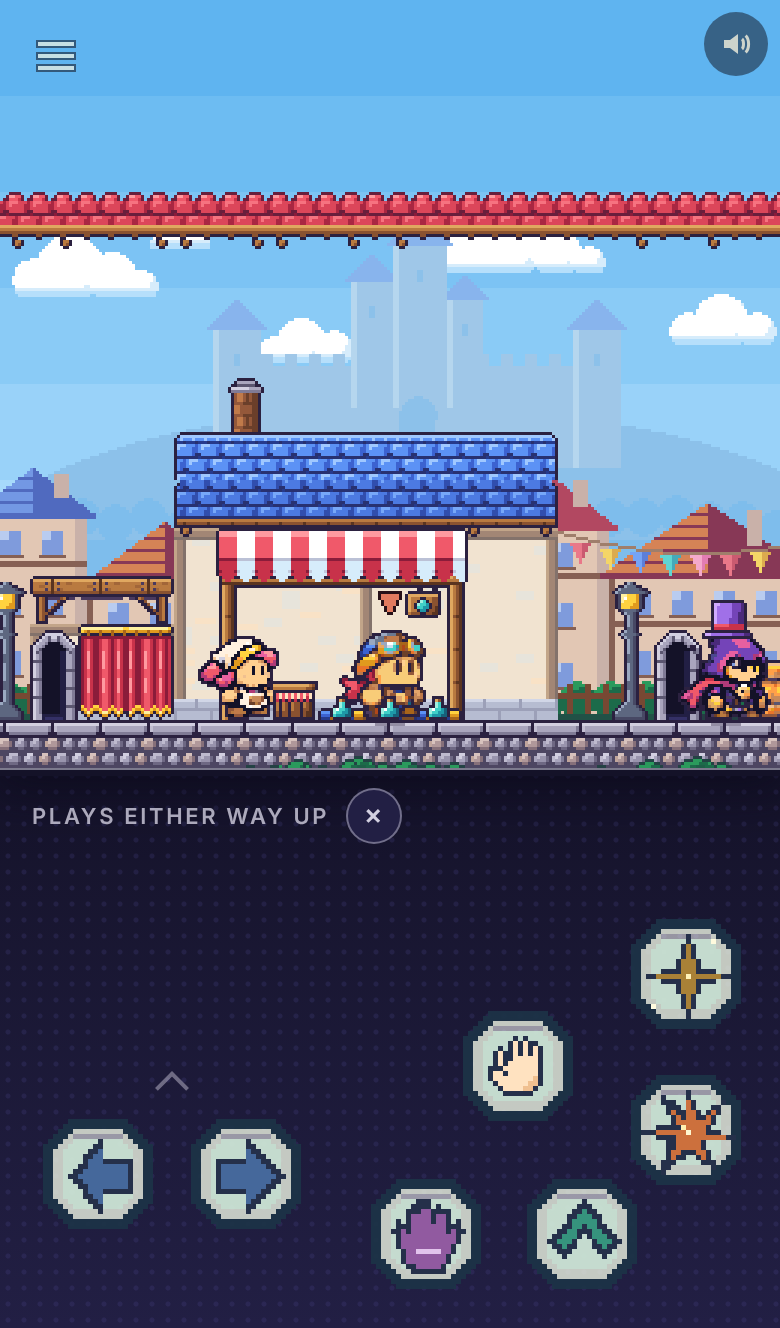
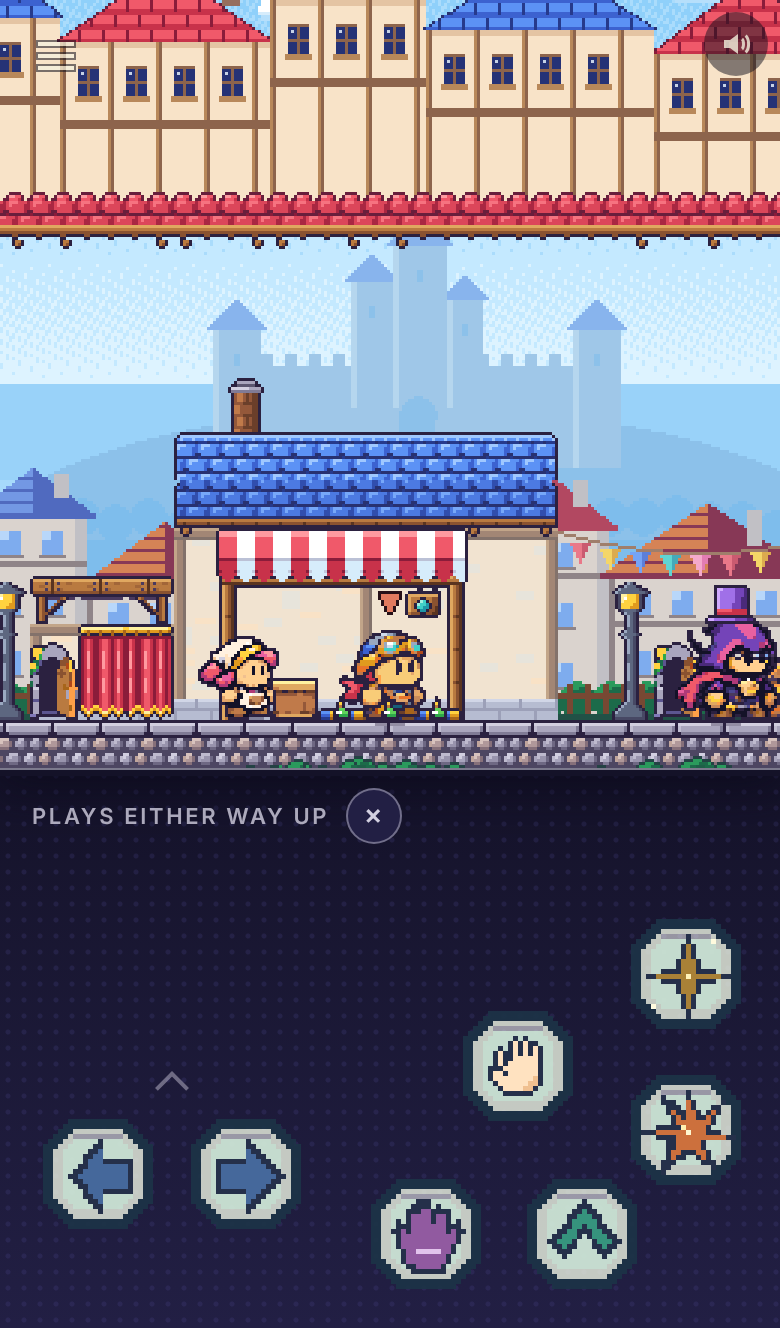
Step 8 look round 3, lane cast, push 5: tumble and curled held for every person; the villain's face reads
Why: the orchestrator's follow-ups after a59a302 put the tumble validator
on main. Every person (the twelve cut from the plates) now has `tumble`
(the recoil pose tucked and turned a quarter at a time, 4 frames) and a
curled, kicking `held`, with mood 2 and 3 versions. The villain is cut
larger (face about 11x7 px) and his mood-3 red face now also recolours
the gold/orange tones his plate paints his face in, so it shows at phone
size; the horn specks are gone. Top hat kept. Data only.

Ran: make.py, selfcheck, build, check, e2e (ok). Looked at the tumble and
held frames of all twelve and the villain on castle-street at 390x664 and
844x390. Not seen: a tumble in flight in the real game. Measure: no row.
Undo: revert the commit.

Claude-Session: https://claude.ai/code/session_017WiGzFHN8SWsy5GnNkweMt

diff --git a/tools/art/cast/cut3.py b/tools/art/cast/cut3.py
@@ -69,15 +69,22 @@ def lean(p, k):
     return p.copy(im=out, foot=(p.foot[0] + pad, p.foot[1]))
 
 
-def flush(p, frac=0.62):
+# The villain's plate paints his face in gold and orange tones; his red face recolours those too.
+WARM = dict(SKIN)
+WARM.update({RAMP['gold'][2]: RAMP['red'][2], RAMP['gold'][1]: RAMP['red'][1], RAMP['gold'][3]: RAMP['red'][3],
+                     RAMP['orange'][1]: RAMP['red'][1], RAMP['orange'][0]: RAMP['red'][0]})
+
+
+def flush(p, frac=0.62, table=None):
     im = p.im.copy()
     px = im.load()
     lim = int(im.height * frac)
+    table = table or SKIN
     for y in range(lim):
         for x in range(im.width):
             c = px[x, y]
-            if c[3] and c[:3] in SKIN:
-                px[x, y] = SKIN[c[:3]] + (255,)
+            if c[3] and c[:3] in table:
+                px[x, y] = table[c[:3]] + (255,)
     return p.copy(im=im)
 
 
@@ -354,8 +361,33 @@ def dehorn(p, frac=0.4):
     from source import _clean
     _clean(im)
     _clean(im)
+    _islands(im, 8)
     _ink(im)
     return p.copy(im=im)
+
+
+def _islands(im, smallest):
+    """Drops every 8-connected island of fewer than `smallest` pixels (specks left where a horn was)."""
+    px = im.load()
+    seen = set()
+    for y0 in range(im.height):
+        for x0 in range(im.width):
+            if (x0, y0) in seen or not px[x0, y0][3]:
+                continue
+            comp, stack = [], [(x0, y0)]
+            seen.add((x0, y0))
+            while stack:
+                x, y = stack.pop()
+                comp.append((x, y))
+                for dx in (-1, 0, 1):
+                    for dy in (-1, 0, 1):
+                        q = (x + dx, y + dy)
+                        if 0 <= q[0] < im.width and 0 <= q[1] < im.height and q not in seen and px[q][3]:
+                            seen.add(q)
+                            stack.append(q)
+            if len(comp) < smallest:
+                for q in comp:
+                    px[q] = (0, 0, 0, 0)
 
 
 def guard():
@@ -457,7 +489,7 @@ def villain():
     # horns taken off and round 2's tall top hat put on, so he keeps the silhouette that made him
     # the tallest person in a room. The plain horned hood is the alternative: drop the tophat() and
     # dehorn() calls in vil() below (docs/decisions-log.md).
-    raw = _poses('villains', 0.24, {
+    raw = _poses('villains', 0.28, {
         'i0': ((22, 151, 152, 290),),
         'i1': ((189, 154, 303, 290),),
         'w0': ((341, 155, 457, 290),),
@@ -492,7 +524,7 @@ def villain():
     }
     M2 = {'idle': [P['worry'], P['worry'], breathe(P['worry']), breathe(P['worry'])], 'talk': [P['worry'], P['alert']]}
     M3 = {}
-    return dict(cell=(56, 56), box=(14, 28), S=S, M2=M2, M3=M3, head=0.7)
+    return dict(cell=(56, 64), box=(14, 28), S=S, M2=M2, M3=M3, head=0.62, flush=WARM)
 
 
 ROUND3.update({
@@ -600,8 +632,36 @@ def toll_keeper():
 
 ROUND3['toll-keeper'] = toll_keeper
 
-PERSON_STATES = ['idle', 'run', 'air', 'attack', 'hurt', 'down', 'held', 'talk', 'grab', 'carry', 'carryRun', 'throw']
-MOOD_STATES = ['idle', 'run', 'air', 'attack', 'hurt', 'held', 'talk']
+PERSON_STATES = ['idle', 'run', 'air', 'attack', 'hurt', 'down', 'held', 'talk', 'grab', 'carry', 'carryRun', 'throw', 'tumble']
+MOOD_STATES = ['idle', 'run', 'air', 'attack', 'hurt', 'held', 'talk', 'tumble']
+
+
+def curl(p):
+    """Tucked: two rows out of the body (knees up), so a held or flung person reads as a ball."""
+    return breathe(breathe(p, 0.62), 0.45)
+
+
+def spin(p):
+    """A tumble: the curled pose turned a quarter at a time, forwards (a body in flight, not one lying down)."""
+    out = []
+    for t in (None, Image.ROTATE_270, Image.ROTATE_180, Image.ROTATE_90):
+        bb = p.im.getbbox()
+        im = p.im.crop(bb)
+        if t is not None:
+            im = im.transpose(t)
+        out.append(Pose(im, (im.width / 2, im.height), -2, 0))
+    return out
+
+
+def flight(S):
+    """Round 3: `held` curled and kicking, and `tumble`, made from the person's recoil pose."""
+    if 'hurt' not in S or 'held' not in S:
+        return S
+    S = dict(S)
+    S['held'] = [curl(p) for p in S['held']]
+    S['tumble'] = spin(curl(S['hurt'][1]))
+    S['_tumble'] = curl(S['hurt'][1])   # the unturned pose, so a mood's face edit lands on the head
+    return S
 
 
 def rows(spec):
@@ -610,15 +670,19 @@ def rows(spec):
     A mood state the person has no own pose for is the normal frames with
     the face edited: mood 2 a sweat drop, mood 3 a red face.
     """
-    S = spec['S']
+    S = spec['S'] if spec.get('thing') else flight(spec['S'])
     out = [(s, S[s]) for s in PERSON_STATES if s in S]
     if spec.get('thing'):
         return out
     head = spec.get('head', 0.62)
-    for m, own, edit in (('2', spec['M2'], sweat), ('3', spec['M3'], lambda p: flush(p, head))):
+    table = spec.get('flush')
+    for m, own, edit in (('2', spec['M2'], sweat), ('3', spec['M3'], lambda p: flush(p, head, table))):
         for s in MOOD_STATES:
             if s not in S:
                 continue
-            fr = own.get(s) or [edit(p) for p in S[s]]
+            if s == 'tumble' and '_tumble' in S and s not in own:
+                fr = spin(edit(S['_tumble']))
+            else:
+                fr = own.get(s) or [edit(p) for p in S[s]]
             out.append((s + m, fr))
     return out

diff --git a/tools/art/cast/make.py b/tools/art/cast/make.py
@@ -28,7 +28,7 @@ COLS = 8
 PEOPLE_ROWS = ['idle', 'run', 'air', 'hurt', 'down', 'held', 'talk', 'attack',
                'idle2', 'run2', 'talk2', 'idle3', 'run3', 'talk3']
 FPS_BY = {'idle': 6, 'run': 12, 'attack': 14, 'hurt': 10, 'down': 2, 'held': 10, 'talk': 9, 'air': 8,
-          'grab': 10, 'carry': 4, 'carryRun': 12, 'throw': 14}
+          'grab': 10, 'carry': 4, 'carryRun': 12, 'throw': 14, 'tumble': 14}
 
 
 def build_all():

diff --git a/tools/art/cast/README.md b/tools/art/cast/README.md
@@ -108,7 +108,7 @@ does not sink into the undercroft.
     side of the pole.
 - **States** for the four people: `idle` 4, `run` 6, `air` 2 (`jump`,
   `fall`), `attack` 4, `hurt` 3, `down` 2, `held` 4, `talk` 2, `grab` 1,
-  `carry` 2, `carryRun` 4, `throw` 3 (the fighter and lookout have no
+  `carry` 2, `carryRun` 4, `throw` 3, `tumble` 4 (push 5) (the fighter and lookout have no
   grab/carry/throw: they cannot grab). Moods `"2"` and `"3"` each have
   `idle`, `run`, `air`, `attack`, `hurt`, `held`, `talk`, and `down`
   naming the normal knocked-out frames. Mood 2 idle/talk use the plate's
@@ -251,11 +251,13 @@ New ids for the contract's cast list: `brawler`, `skirmisher`,
 - (Round 3) `tumble` and the curled, kicking `held` wait for the actors
   lane's validator (`git log origin/main --grep 'round 3, actors'`, empty
   at this push); `held` is the hurt pose wiggling.
-- (Round 3) **The villain is the weakest again**: his face is small and
-  dark under the hood, so his mood-3 red face is the least visible of
-  the four; a few dark specks stay where the horns were; and his
-  knocked-out pose is borrowed from another plate's caster. The plain
-  horned hood (no hat) is the alternative (decisions log).
+- (Round 3, push 5) **The villain** is now cut larger (scale 0.28, about
+  50 px to the hat's top, cell 56x64) so his face is about 11x7 px, and
+  his red face also recolours the gold and orange tones the plate paints
+  his face in (`WARM` in `cut3.py`), so mood 3 shows. Specks where the
+  horns were are dropped (`_islands`). Still the weakest: his knocked-out
+  pose is another plate's caster. Top hat kept; the horned hood is the
+  logged alternative.
 - (Round 3) Moods could not be forced in the real game for a shot:
   setting a mood on `window.irreverents.world` does not reach the drawn
   frame. Moods are judged from the sheets (`moods-town-four.png`).
@@ -309,5 +311,9 @@ New ids for the contract's cast list: `brawler`, `skirmisher`,
   only adds the toll keeper's picture, and collision never depends on art.
   A second run could not check it (main moved on to the ground lane's
   queued push). For the Step 18 owner.
-- `tumble` and the curled `held`: not drawn (the actors lane's validator
-  is not on `main`).
+- (Push 5) `tumble` and the curled `held` are drawn for every person
+  (`flight()` in `cut3.py`): `held` is the held pose tucked (two rows out,
+  knees up, still kicking side to side); `tumble` is the recoil pose
+  tucked and turned a quarter at a time, four frames at 14 fps, with
+  mood-2 and mood-3 versions (the face edited before the turn). Not seen
+  in the real game in flight: judged from the sheets.
